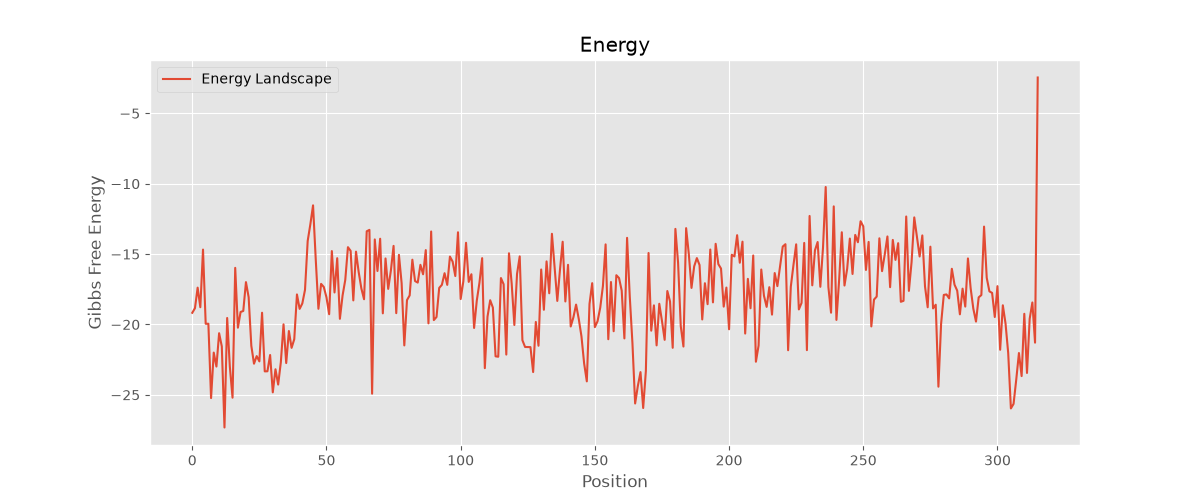
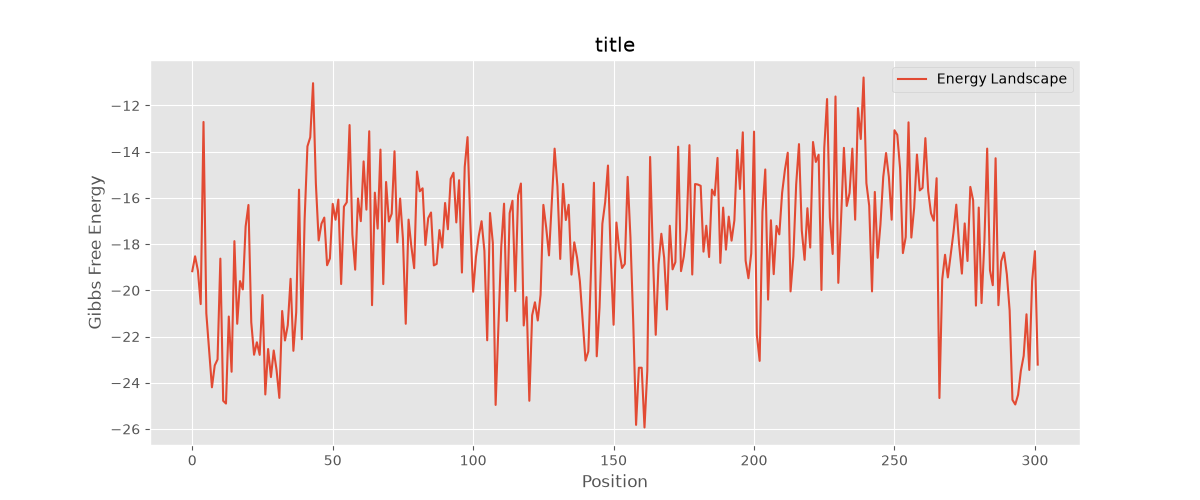
initial version of script to analyze energy of dna strand

diff --git a/src/analysis/energy.py b/src/analysis/energy.py
@@ -44,13 +44,11 @@ def main() -> None:
     print(f"       remainder: {slen % size}")
 
 
-    for i in range(0, srem + 1):
+    for i in range(0, size):
         snrg = []
-        for j in range(i, slen, size - (srem - i)):
+        for j in range(i, slen, size):
             base = sdna[j:j + size]
-            comp = complement(base)
-            snrg.append(gibbs_free_energy(base, comp, 273.15 + t_st))
+            if len(base) == size:
+                comp = complement(base)
+                snrg.append(gibbs_free_energy(base, comp, 273.15 + t_st))
         plot_results(snrg, f"m13_7249_{i}_{t_st}")
-
-
-
